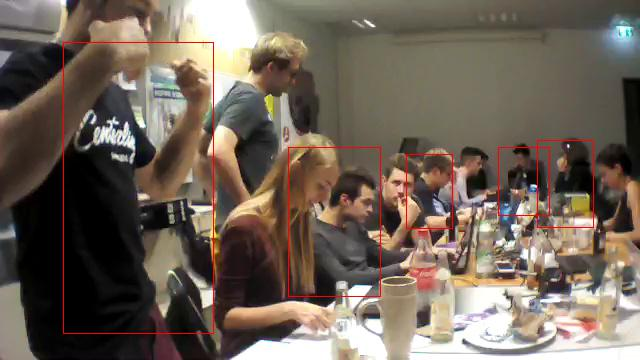
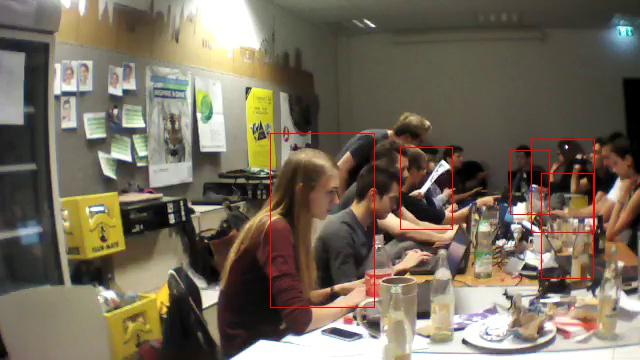
* Changed from PIL to Own Implementation and CV2

diff --git a/drone.py b/drone.py
@@ -5,12 +5,9 @@ from threading import Thread, Lock, Condition
 import cv2
 import numpy
 import keras
-import copy
-from PID import PID
-from YOLO import SimpleNet, convert_yolo_detections, do_nms_sort, draw_detections
+from YOLO import SimpleNet, convert_yolo_detections, do_nms_sort
 from actuators import Actuator
 from utils.TinyYoloNet import ReadTinyYOLONetWeights
-from utils.crop import crop
 
 
 class YOLODrone(object):
@@ -24,6 +21,7 @@ class YOLODrone(object):
         self.condition = Condition()
         self.update = False
         self.contours = None
+        self.boxes_update = False
         self.image = None
 
         self.labels = ["aeroplane", "bicycle", "bird", "boat", "bottle", "bus", "car", "cat", "chair", "cow", "diningtable",
@@ -68,7 +66,7 @@ class YOLODrone(object):
         else:
             try:
                 self.mutex = Lock()
-                t1 = Thread(target=self.autonomousFlight, args=(640, 360, 98, 0.1, self.labels,))
+                t1 = Thread(target=self.autonomousFlight, args=(448, 448, 98, 0.1, self.labels,))
                 t2 = Thread(target=self.getVideoStream, args=())
                 t3 = Thread(target=self.getBoundingBoxes, args=())
                 t1.start()
@@ -124,37 +122,38 @@ class YOLODrone(object):
             if self.key != " ":
                 self.key = ""
 
-    def getVideoStream(self):
+    def getVideoStream(self, img_width=448, img_height=448):
         while not self.stop:
-            filename = "frame"
-            filename += ".jpg"
-            self.mutex.acquire()
-            img = cv2.imread("results/" + filename)
-            self.mutex.release()
+            img = self.image
             if img != None:
                 nav_data = self.drone.get_navdata()
-
+                #
                 nav_data = nav_data[0]
-
+                #
                 font = cv2.FONT_HERSHEY_SIMPLEX
                 font_size = 0.5
 
-                cv2.putText(img, 'State: %s' % nav_data['ctrl_state'], (5, 15), font, font_size, (255, 255, 255))
-
-                cv2.putText(img, 'Phi (+Roll Right/- Roll Left): %.0f' % nav_data['phi'], (5, 30), font, font_size,
-                            (255, 255, 255))
-                cv2.putText(img, 'Psi (+Turn Right/- Turn Left): %.0f' % nav_data['psi'], (5, 45), font, font_size,
-                            (255, 255, 255))
-                cv2.putText(img, 'Theta (+Up/-Down): %.0f' % nav_data['theta'], (5, 60), font, font_size,
-                            (255, 255, 255))
-
-                cv2.putText(img, 'Altitude: %.0f' % nav_data['altitude'], (5, 75), font, font_size, (255, 255, 255))
-                cv2.putText(img, 'vx/vy/vz: %.0f/%.0f/%.0f' % (nav_data['vx'], nav_data['vy'], nav_data['vz']),
-                            (5, 90), font, font_size, (255, 255, 255))
-
-                cv2.putText(img, 'Battery: %.0f%%' % nav_data['battery'], (5, 105), font, font_size, (255, 255, 255))
-
+                cv2.putText(img, 'Altitude: %.0f' % nav_data['altitude'], (5, 15), font, font_size, (255, 255, 255))
+                #
+                cv2.putText(img, 'Battery: %.0f%%' % nav_data['battery'], (5, 30), font, font_size, (255, 255, 255))
+                #
                 cv2.drawContours(img, self.contours, -1, (0, 255, 0), 3)
+                thresh = 0.2
+                self.mutex.acquire()
+                if self.boxes_update:
+                    self.boxes_update = False
+                    for b in self.boxes:
+                        max_class = numpy.argmax(b.probs)
+                        prob = b.probs[max_class]
+                        if (prob > thresh and self.labels[max_class] == "person"):
+                            left = (b.x - b.w / 2.) * img_width
+                            right = (b.x + b.w / 2.) * img_width
+
+                            top = (b.y - b.h / 2.) * img_height
+                            bot = (b.y + b.h / 2.) * img_height
+
+                            cv2.rectangle(img, (int(left), int(top)), (int(right), int(bot)), (0, 0, 255), 3)
+                self.mutex.release()
                 cv2.imshow('frame', img)
 
                 l = cv2.waitKey(150)
@@ -173,80 +172,42 @@ class YOLODrone(object):
     def getBoundingBoxes(self):
         newest = time.time()
         while not self.stop:
-            try:
+            #try:
                 pixelarray = self.drone.get_image()
                 pixelarray = cv2.cvtColor(pixelarray, cv2.COLOR_BGR2RGB)
-                # pixelarray = cv2.GaussianBlur(pixelarray, (3, 3), 0)
 
                 # Check for Blurry
                 gray = cv2.cvtColor(pixelarray, cv2.COLOR_RGB2GRAY)
                 fm = self.variance_of_laplacian(gray)
                 if fm < 10:
-                    print "non"
                     continue
 
-                print "Anazlyzse"
-
                 if pixelarray != None:
-                    newest = time.time()
-                    filename = "frame"
-                    filename += ".jpg"
+                    # ima = pixelarray[120:540]
+                    ima = cv2.resize(pixelarray, (448, 448))
 
+                    image = cv2.cvtColor(ima, cv2.COLOR_RGB2BGR)
 
-
-                    ############################################
-
-                    cv2.imwrite("frames/" + filename, pixelarray)
-
-                    image = crop("frames/" + filename, resize_width=400, resize_height=400, new_width=448,
-                                 new_height=448)
+                    image = numpy.rollaxis(image, 2, 0)
+                    image = image / 255.0
+                    image = image * 2.0 - 1.0
                     image = numpy.expand_dims(image, axis=0)
-                    #
 
                     out = self.model.predict(image)
-
                     predictions = out[0]
                     boxes = convert_yolo_detections(predictions)
 
+                    self.mutex.acquire()
                     self.boxes = do_nms_sort(boxes, 98)
-                    self.image = pixelarray
+                    self.image = ima
                     self.update = True
+                    self.mutex.release()
 
-
-                    #
-                    # mutex.acquire()
-                    draw_detections("frames/" + filename, 98, 0.1, boxes, 20, self.labels, filename)
-
-                    ############################################
-                    ############################################
-                    ############################################
-                    # ima = pixelarray[120:540]
-                    # ima = cv2.resize(ima, (448, 448))
-
-
-                    # image = cv2.cvtColor(ima, cv2.COLOR_RGB2BGR)
-
-                    # image = numpy.rollaxis(image, 2, 0)
-                    # image = image / 255.0
-                    # image = image * 2.0 - 1.0
-                    # image = numpy.expand_dims(image, axis=0)
-
-                    #out = self.model.predict(image)
-                    #predictions = out[0]
-                    #boxes = convert_yolo_detections(predictions)
-
-                    #self.boxes = do_nms_sort(boxes, 98)
-                    #self.image = ima
-                    #self.update = True
-
-                    # cv2.imwrite("frames/" + filename, pixelarray)
-                    #cv2.imwrite("frames/cropped_" + filename, ima)
-                    #draw_detections("frames/cropped_" + filename, 98, 0.1, boxes, 20, self.labels, filename)
-            except:
-                pass
+            #except:
+            #    pass
 
     def autonomousFlight(self, img_width, img_height, num, thresh, labels):
-        actuator = Actuator(self.drone, img_width, img_width * 0.3)
+        actuator = Actuator(self.drone, img_width, img_width * 0.5)
 
         print self.drone.navdata
         while not self.stop:
@@ -263,7 +224,6 @@ class YOLODrone(object):
                 image = cv2.inRange(image, lower_red_1, upper_red_1)
 
                 # Put on median blur to reduce noise
-                # image = cv2.GaussianBlur(image, (15, 15), 2)
                 image = cv2.medianBlur(image, 11)
 
                 # Find contours and decide if hat is one of them
@@ -271,12 +231,13 @@ class YOLODrone(object):
 
                 self.contours = contours
 
-                boxes = copy.deepcopy(self.boxes)
+                boxes = self.boxes
 
                 best_prob = -99999
                 best_box = -1
                 best_contour = None
 
+                self.mutex.acquire()
                 for i in range(num):
                     # for each box, find the class with maximum prob
                     max_class = numpy.argmax(boxes[i].probs)
@@ -302,13 +263,16 @@ class YOLODrone(object):
                             else:
                                 intersection = True
 
-                                if best_prob < prob and w > 50:
+                                if best_prob < prob and w > 30:
                                     print "prob found"
                                     best_prob = prob
                                     best_box = i
                                     best_contour = contour
 
+                self.boxes_update = True
                 if best_box < 0:
+                    # print "No Update"
+                    self.mutex.release()
                     self.drone.at(libardrone.at_pcmd, False, 0, 0, 0, 0)
                     continue
 
@@ -333,7 +297,8 @@ class YOLODrone(object):
 
                 x, y, w, h = cv2.boundingRect(best_contour)
 
-                actuator.step(right - width/2, width)
+                actuator.step(right - width/2., width)
+                self.mutex.release()
 
 
 def main():
